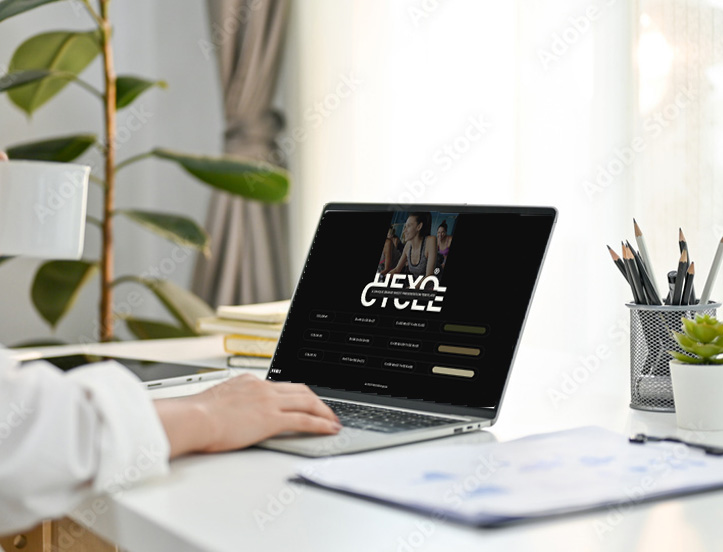
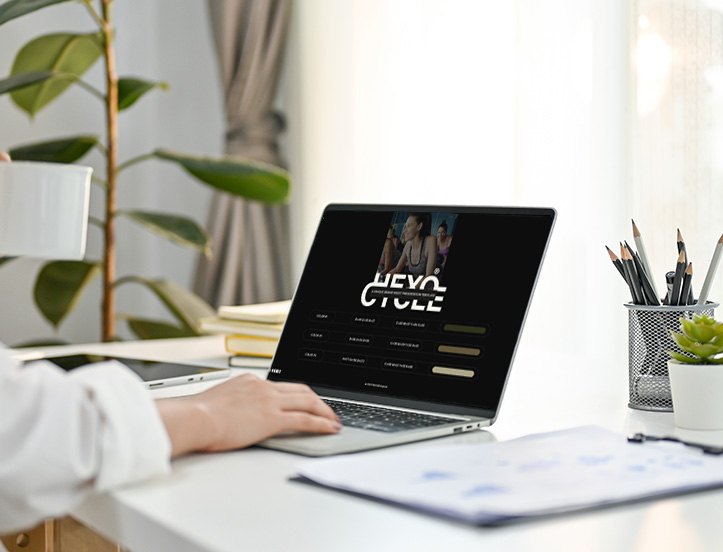
imgs

diff --git a/branding.html b/branding.html
@@ -485,8 +485,8 @@
 
 
 <div class="branding-1">
-    <!-- <img class="rcl-mockup1" src="assets/images/rcl-screen-1.png"> -->
-    <img class="brand-all" src="assets/images/brand-2.jpg">
+    
+    <img class="brand-all" src="assets/images/brand.jpg">
   </div>
   
 
@@ -575,7 +575,7 @@
 
 
  
-  <div class="bg-locations">
+  <!-- <div class="bg-locations">
     <section id="studio-locations">
 
   <div>
@@ -584,8 +584,7 @@
         <img src="assets/images/homepage-imgs-15.jpg" alt="Become A Crafted Partner" data-location="">
       </div>
       <h3 class="accordion" data-location="miami">
-        <!-- <i>Wynwood, Miami</i> -->
-        <!-- <span class="arrow">&nbsp;&nbsp;→</span> -->
+     
       </h3>
     </div>
     <div class="location">
@@ -593,15 +592,14 @@
         <img src="assets/images/boat-mobile.jpg" alt="Visit Us IRL">
       </div>
         <h3 class="accordion" data-location="ftl">
-        <!-- <i>Fort Lauderdale</i> -->
-        <!-- <span class="arrow">&nbsp;&nbsp;→</span> -->
+       
       </h3>
     </div>
     <div class="location" data-link="/pages/grove">
       <div class="image-120">
         <img src="assets/images/home_sec3.jpg" alt="Visit Us IRL">
       </div>
-      <!-- <h3><i><a href="/pages/grove" title="" target="_self">Coconut Grove - Coming soon</a></i></h3> -->
+       <h3><i><a href="/pages/grove" title="" target="_self">Coconut Grove - Coming soon</a></i></h3> 
     </div>
   </div>
   <div class="details" data-details="miami">
@@ -676,42 +674,8 @@
     })
   })
 </script>
-<!-- <script>
-  var acc = document.querySelectorAll("#studio-locations .accordion");
-  for (let i = 0; i < acc.length; i++) {
-    acc[i].addEventListener("click", function() {
-      for (let j = 0; j < acc.length; j++) {
-        if (i === j) {
-          this.parentNode.classList.toggle("active");
-        } else {
-          acc[j].parentNode.classList.remove("active");
-        }
-      }
-    });
-  }
-  const miami = document.querySelector("#studio-locations h3[data-location='miami']");
-  const miami_pic = document.querySelector("#studio-locations img[data-location='miami']");
-  const miami_details = document.querySelector("#studio-locations div[data-details='miami']");
 
-  const ftl = document.querySelector("#studio-locations h3[data-location='ftl']");
-  const ftl_pic = document.querySelector("#studio-locations img[data-location='ftl']");
-  const ftl_details = document.querySelector("#studio-locations div[data-details='ftl']");
-  
-  miami.addEventListener("click", function() {
-    miami_details.classList.toggle("expended");
-  });
-  miami_pic.addEventListener("click", function() {
-    miami_details.classList.toggle("expended");
-  });
-
-  ftl.addEventListener("click", function() {
-    ftl_details.classList.toggle("expended");
-  });
-  ftl_pic.addEventListener("click", function() {
-    ftl_details.classList.toggle("expended");
-  });
-</script> -->
-  </div>
+  </div> -->
 </div>
 
 <style>
@@ -722,7 +686,7 @@
     background: no-repeat url(assets/images/brand-1.jpg);
     background-position: 100% 90%;
     background-size: 45vw auto;
-    background-color: #D2A987;
+    background-color: #ddd2ba;
     height: 600px;
   }
 

diff --git a/new-work.html b/new-work.html
@@ -181,7 +181,7 @@
                         </li>   
                         <li class="project web">
                           <div class="grid-item">
-                            <a href="bikePal.html">
+                            <a href="rcl.html">
                               <img src="assets/images/services-18.jpg" />    
                             </a>          
                             <span class='overlay' href='#'></span>

diff --git a/about.html b/about.html
@@ -831,7 +831,7 @@
   <div>
     <div class="location">
       <div class="image-120">
-        <img src="assets/images/homepage-imgs-15.jpg" alt="Become A Crafted Partner" data-location="miami">
+        <img src="assets/images/" alt="Become A Crafted Partner" data-location="miami">
       </div>
       <h3 class="accordion" data-location="miami">
         <!-- <i>Wynwood, Miami</i> -->

diff --git a/boat-concept.html b/boat-concept.html
@@ -193,7 +193,7 @@
   
         <div class="row">
             <div class="col">
-              <button class="returnBtn"><a href="work.html" style="color: white;">BACK TO PORTFOLIO</a></button>
+              <button class="returnBtn"><a href="new-work.html" style="color: white;">BACK TO PORTFOLIO</a></button>
             </div>
           </div>
   </div>

diff --git a/contact.html b/contact.html
@@ -81,7 +81,7 @@
 
   <strong style="display: block; margin: 20px 0px;">STUDIO HOURS</strong> 
   Monday - Friday, 9 am - 6 pm est. <br>
-  info@isabel-parra.com
+  <!-- info@isabel-parra.com -->
 </p>
 
         <div class='contact-form'>

diff --git a/assets/css/style.css b/assets/css/style.css
@@ -103,8 +103,8 @@ html, body {
   margin-bottom: 50px;
 }
 .brand-all {
-  float:left;
-  width:75%;
+  /* float:left; */
+  width:50%;
   display: block;
   margin: 0 auto;
   margin-bottom: 50px;
